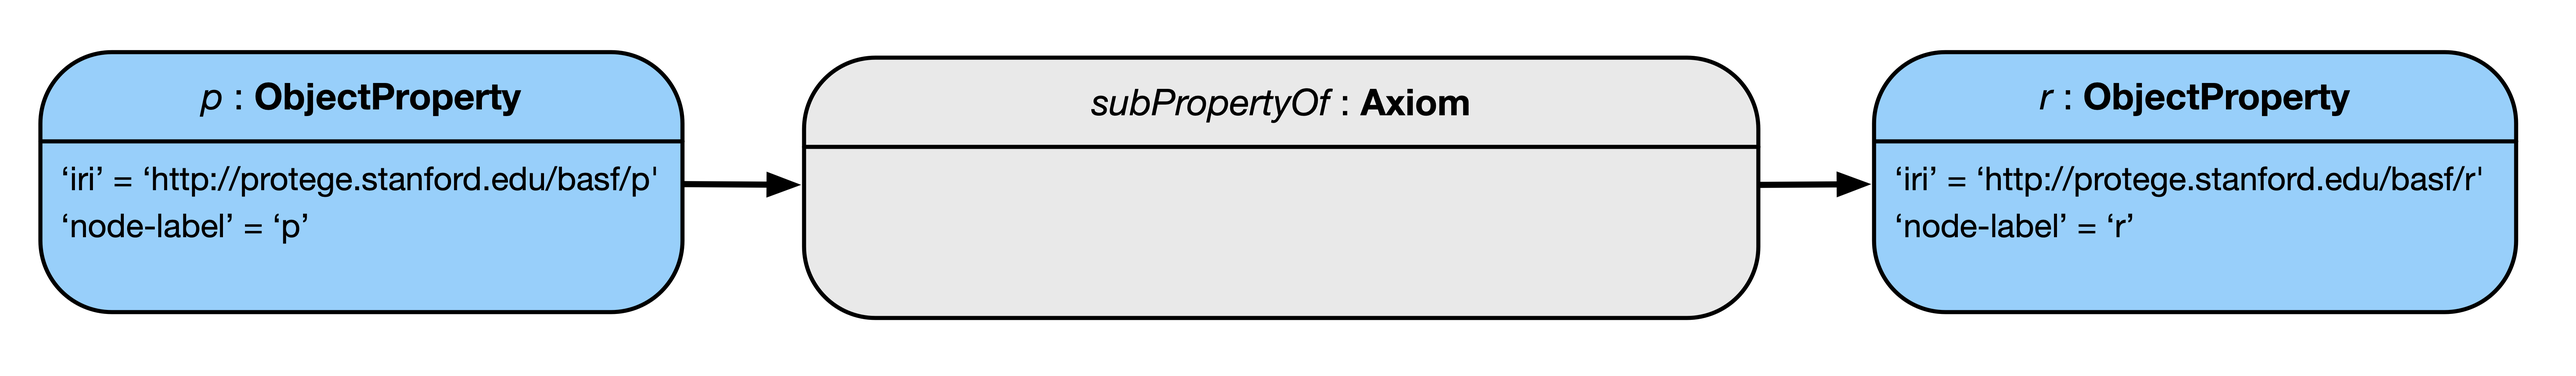
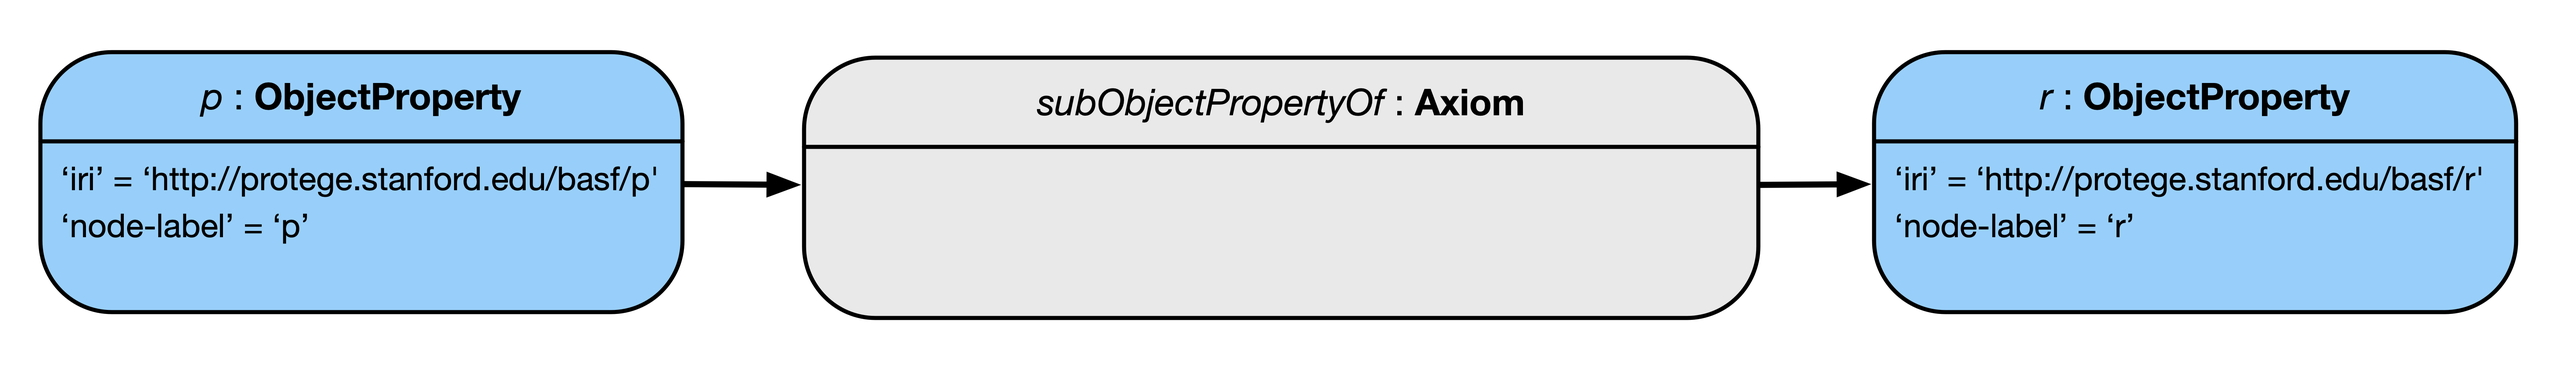
Added text & tables specifying OWL2LPG mapping of property axioms

Changed region(s): [[0.406, 0.2188, 0.5933, 0.3125]]

diff --git a/index.html b/index.html
@@ -11,7 +11,7 @@
  <body class="h-entry">
   <div class="head">
    <h1 id="title">Draft Specification: Mapping of OWL 2 EL Ontologies to Labeled Property Graphs</h1>
-   <h2 id="subtitle">Working Draft, Updated: <time class="dt-updated" datetime="2020-02-28">28 February 2020</time></h2>
+   <h2 id="subtitle">Working Draft, Updated: <time class="dt-updated" datetime="2020-03-02">2 March 2020</time></h2>
    <div>
     <dl>
      <dt>Feedback:
@@ -76,8 +76,8 @@
           </ol>
         <li><a href="#property-axioms"><span class="secno">3.2</span> Property Axioms</a>
           <ol>
-            <li><a href="#subproperty-axioms"><span class="secno">3.2.1</span> SubPropertyOf Axioms</a>
-            <li><a href="#property-chain-axioms"><span class="secno">3.2.2</span> PropertyChain Axioms</a>
+            <li><a href="#subproperty-axioms"><span class="secno">3.2.1</span> SubObjectPropertyOf Axioms</a>
+            <li><a href="#property-chain-axioms"><span class="secno">3.2.2</span> ObjectPropertyChain Axioms</a>
             <li><a href="#transitive-property-axioms"><span class="secno">3.2.3</span> TransitiveProperty Axioms</a>
             <li><a href="#domain-axioms"><span class="secno">3.2.4</span> PropertyDomain (and Range) Axioms</a>
           </ol>
@@ -337,7 +337,7 @@ Example queries:
 
    <table class="data">
     <caption>Mapping SubClassOf axioms between named classes to LPG.</caption>
-    <colgroup style="width:50%"></colgroup>
+    <colgroup style="width:35%"></colgroup>
     <colgroup></colgroup>
     <thead><tr><th>OWL</th><th>LPG</th></tr></thead>
     <tbody><tr>
@@ -387,7 +387,7 @@ Example queries:
 
    <table class="data">
     <caption>Mapping SubClassOf HasSelf axioms to LPG.</caption>
-    <colgroup style="width:50%"></colgroup>
+    <colgroup style="width:35%"></colgroup>
     <colgroup></colgroup>
     <thead><tr><th>OWL</th><th>LPG</th></tr></thead>
     <tbody><tr>
@@ -491,13 +491,28 @@ Example queries:
   <p>OWL object, data, and annotation properties are represented as nodes in a LPG.</p>
   
 
-   <!-- SubPropertyOf Axioms -->
-   <h4 id="subproperty-axioms"><span class="secno">3.2.1 </span> SubPropertyOf Axioms</h4>
+   <!-- SubObjectPropertyOf Axioms -->
+   <h4 id="subproperty-axioms"><span class="secno">3.2.1 </span> SubObjectPropertyOf Axioms</h4>
+
+   <p>OWL <code>SubObjectPropertyOf</code> axioms between properties are mapped to LPG in the same way as <code>SubClassOf</code> axioms between named classes, with the difference being the axiom type node.</p>
+
+   <table class="data">
+    <caption>Mapping SubObjectPropertyOf axioms between object properties to LPG.</caption>
+    <colgroup style="width:35%"></colgroup>
+    <colgroup></colgroup>
+    <thead><tr><th>OWL</th><th>LPG</th></tr></thead>
+    <tbody><tr>
+      <td><code>SubObjectPropertyOf(OP<sub>1</sub> OP<sub>2</sub>)</code></td>
+      <td><code>OP<sub>1</sub>:<i>ObjectProperty</i> -> SubObjectPropertyOf:<i>Axiom</i> -> OP<sub>2</sub>:<i>ObjectProperty</i></code></td></tr>
+    </tbody>
+   </table>
+
+   <p>For example, consider the following axiom and its corresponding LPG representation below.</p>
 
    <p class="example" id="example-subpropertyof"> SubObjectPropertyOf( :p :r )</p>
    <figure>
     <img src="images/subpropertyof.png">
-    <figcaption>Representation of OWL SubPropertyOf axioms in a LPG.</figcaption>
+    <figcaption>Representation of OWL SubObjectPropertyOf axioms in a LPG.</figcaption>
    </figure>
 
    <p class="note"><span class="marker">Note:</span>The same strategy applies for <b>SubDataPropertyOf</b> and <b>SubAnnotationPropertyOf</b> axioms.</p>
@@ -506,17 +521,45 @@ Example queries:
    <!-- ObjectPropertyChain Axioms -->
    <h4 id="property-chain-axioms"><span class="secno">3.2.2 </span> PropertyChain Axioms</h4>
 
+   <p>OWL property chain axioms are mapped to LPG by first representing the <code>ObjectPropertyChain</code> class expression type as a node, connected to the first property in the chain, which then is connected to the second property.</p>
+
+   <table class="data">
+    <caption>Mapping ObjectPropertyChain expressions to LPG.</caption>
+    <colgroup style="width:40%"></colgroup>
+    <colgroup></colgroup>
+    <thead><tr><th>OWL</th><th>LPG</th></tr></thead>
+    <tbody><tr>
+      <td><code>SubObjectPropertyOf( ObjectPropertyChain(OP<sub>1</sub> OP<sub>2</sub>) OP<sub>3</sub>)</code></td>
+      <td><code>ObjectPropertyChain:<i>SubObjectPropertyExpression</i> -> OP<sub>1</sub>:<i>ObjectProperty</i> -> OP<sub>2</sub>:<i>ObjectProperty</i> -> SubObjectPropertyOf:<i>Axiom</i> -> OP<sub>3</sub>:<i>ObjectProperty</i></code></td></tr>
+    </tbody>
+   </table>
+
+   <p>For example, consider the following axiom and its corresponding LPG representation below.</p>
+
    <p class="example" id="example-objectpropertychain"> SubObjectPropertyOf( ObjectPropertyChain( :p :q ) :r ) </p>
    <figure>
     <img src="images/object-property-chain.png">
-    <figcaption>Representation of OWL SubPropertyOf axioms with ObjectPropertyChain restrictions in a LPG.</figcaption>
+    <figcaption>Representation of OWL SubObjectPropertyOf axioms with ObjectPropertyChain restrictions in a LPG.</figcaption>
    </figure>
 
 
    <!-- TransitiveObjectProperty Axioms -->
-   <h4 id="transitive-property-axioms"><span class="secno">3.2.3 </span> TransitiveProperty Axioms</h4>
+   <h4 id="transitive-property-axioms"><span class="secno">3.2.3 </span> TransitiveObjectProperty Axioms</h4>
 
    <p>Property characteristics (e.g., symmetric, reflexive, functional, etc.) are mapped to nodes representing the corresponding axiom types in the OWL 2 structural specification (<code>SymmetricObjectProperty, ReflexiveObjectProperty, FunctionalDataProperty</code>, etc., respectively).
+
+   <table class="data">
+    <caption>Mapping TransitiveObjectProperty axioms to LPG.</caption>
+    <colgroup style="width:35%"></colgroup>
+    <colgroup></colgroup>
+    <thead><tr><th>OWL</th><th>LPG</th></tr></thead>
+    <tbody><tr>
+      <td><code>TransitiveObjectProperty(OP<sub>1</sub>)</code></td>
+      <td><code>OP<sub>1</sub>:<i>ObjectProperty</i> -> TransitiveObjectProperty:<i>Axiom</i></code></td></tr>
+    </tbody>
+   </table>
+
+   <p>For example, consider the following axiom and its corresponding LPG representation below.</p>
 
    <p class="example" id="example-equivalent-intersection"> TransitiveObjectProperty( :p )</p>
    <figure>
@@ -530,10 +573,25 @@ Example queries:
    <!-- Domain and Range -->
    <h4 id="domain-axioms"><span class="secno">3.2.4 </span> PropertyDomain (and Range) Axioms</h4>
 
+   <p>OWL axioms describing the domain (or range) of an object property are mapped to LPG by first representing the property in the LPG, connected to the respective axiom type (i.e., <code>ObjectPropertyDomain</code>), which then connects to the class expression representing the domain of the property.</p>
+
+   <table class="data">
+    <caption>Mapping ObjectPropertyDomain axioms to LPG.</caption>
+    <colgroup style="width:40%"></colgroup>
+    <colgroup></colgroup>
+    <thead><tr><th>OWL</th><th>LPG</th></tr></thead>
+    <tbody><tr>
+      <td><code>ObjectPropertyDomain(OP<sub>1</sub> CE<sub>1</sub>)</code></td>
+      <td><code>OP<sub>1</sub>:<i>ObjectProperty</i> -> ObjectPropertyDomain:<i>Axiom</i> -> CE<sub>1</sub>:<i>ClassExpression</i></code></td></tr>
+    </tbody>
+   </table>
+
+   <p>For example, consider the following axiom and its corresponding LPG representation below.</p>
+
    <p class="example" id="example-domain"> ObjectPropertyDomain( :p :A )</p>
    <figure>
     <p><img src="images/domain.png"></p>
-    <figcaption>Representation of OWL property Domain axioms in a LPG.</figcaption>
+    <figcaption>Representation of OWL ObjectPropertyDomain axioms in a LPG.</figcaption>
    </figure>
 
    <p class="note"><span class="marker">Note:</span><b>ObjectPropertyRange</b> axioms are represented similarly, by just swapping the <code>objectPropertyDomain</code> node by the <code>objectPropertyRange</code> node. The same strategy applies for <b>dataPropertyDomain</b>, <b>dataPropertyRange</b>, <b>annotationPropertyDomain</b>, and <b>annotationPropertyRange</b> axioms.</p>
@@ -712,6 +770,10 @@ Example queries:
   In this section we record all major changes to the document, in reverse chronological order.
 
   <dl>
+  <dt><code>March 2, 2020</code></dt>
+  <dd>Added text describing or clarifying the OWL to LPG mapping of <a href="#property-axioms">Property Axioms</a>.</dd>
+  <dd>Added tables depicting mapping rules of <a href="#property-axioms">Property Axioms</a>.</dd>
+
   <dt><code>February 28, 2020</code></dt>
   <dd>Added text describing or clarifying the OWL to LPG mapping of <a href="#class-axioms">Class Axioms</a>.</dd>
   <dd>Added tables depicting mapping rules of <a href="#class-axioms">Class Axioms</a>.</dd>
